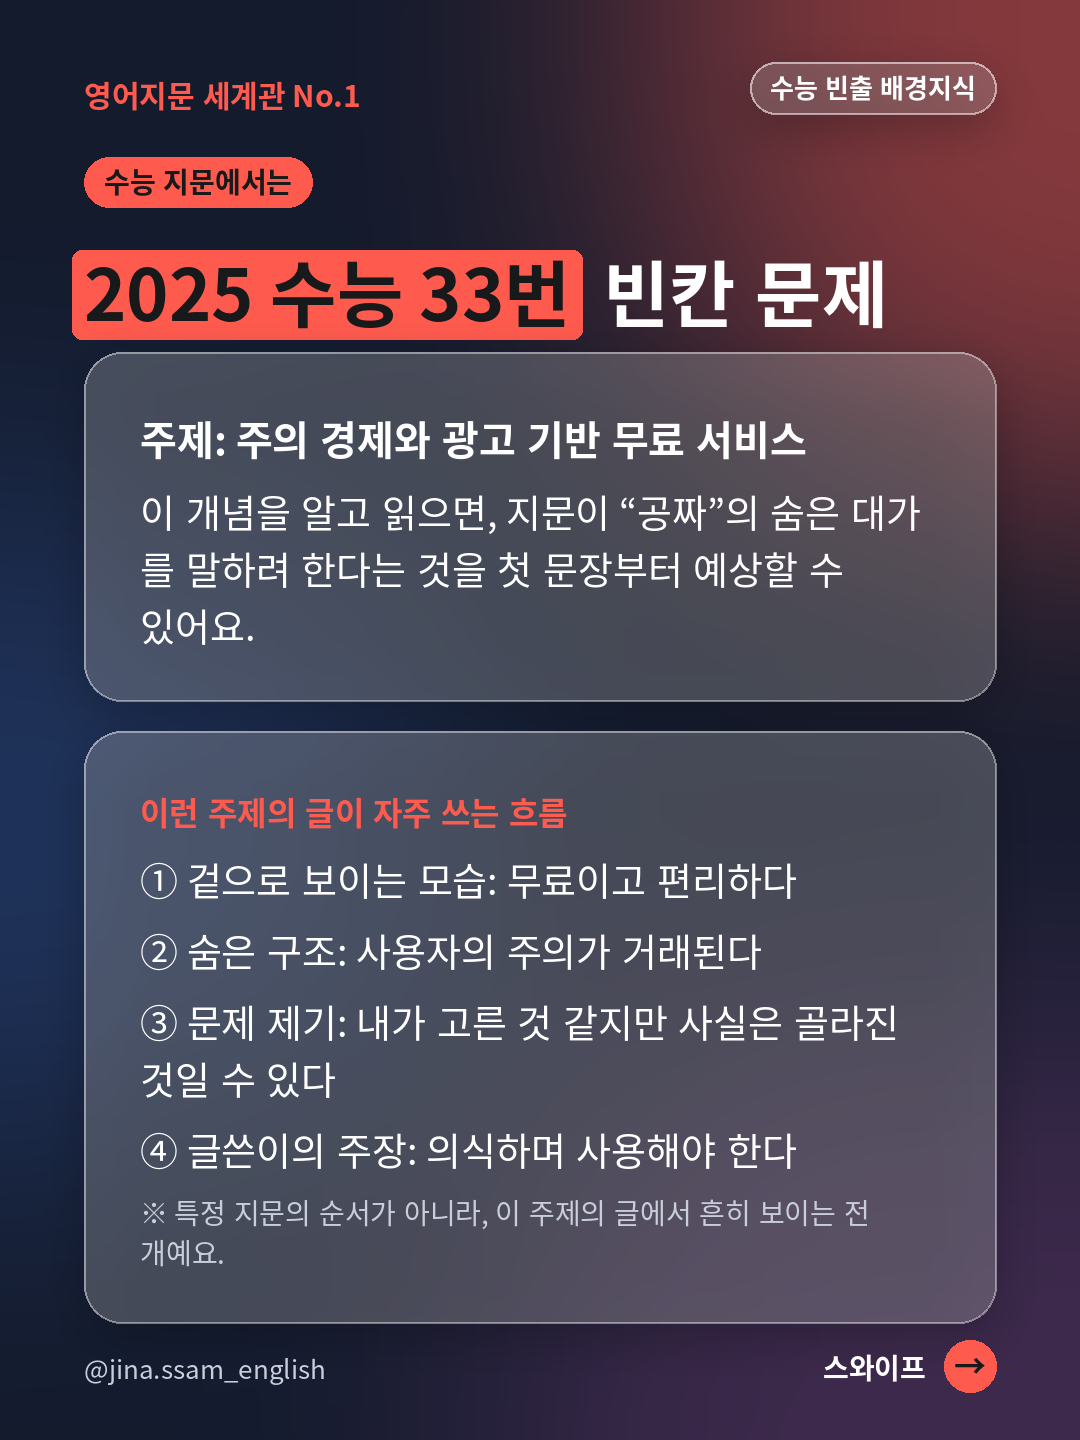
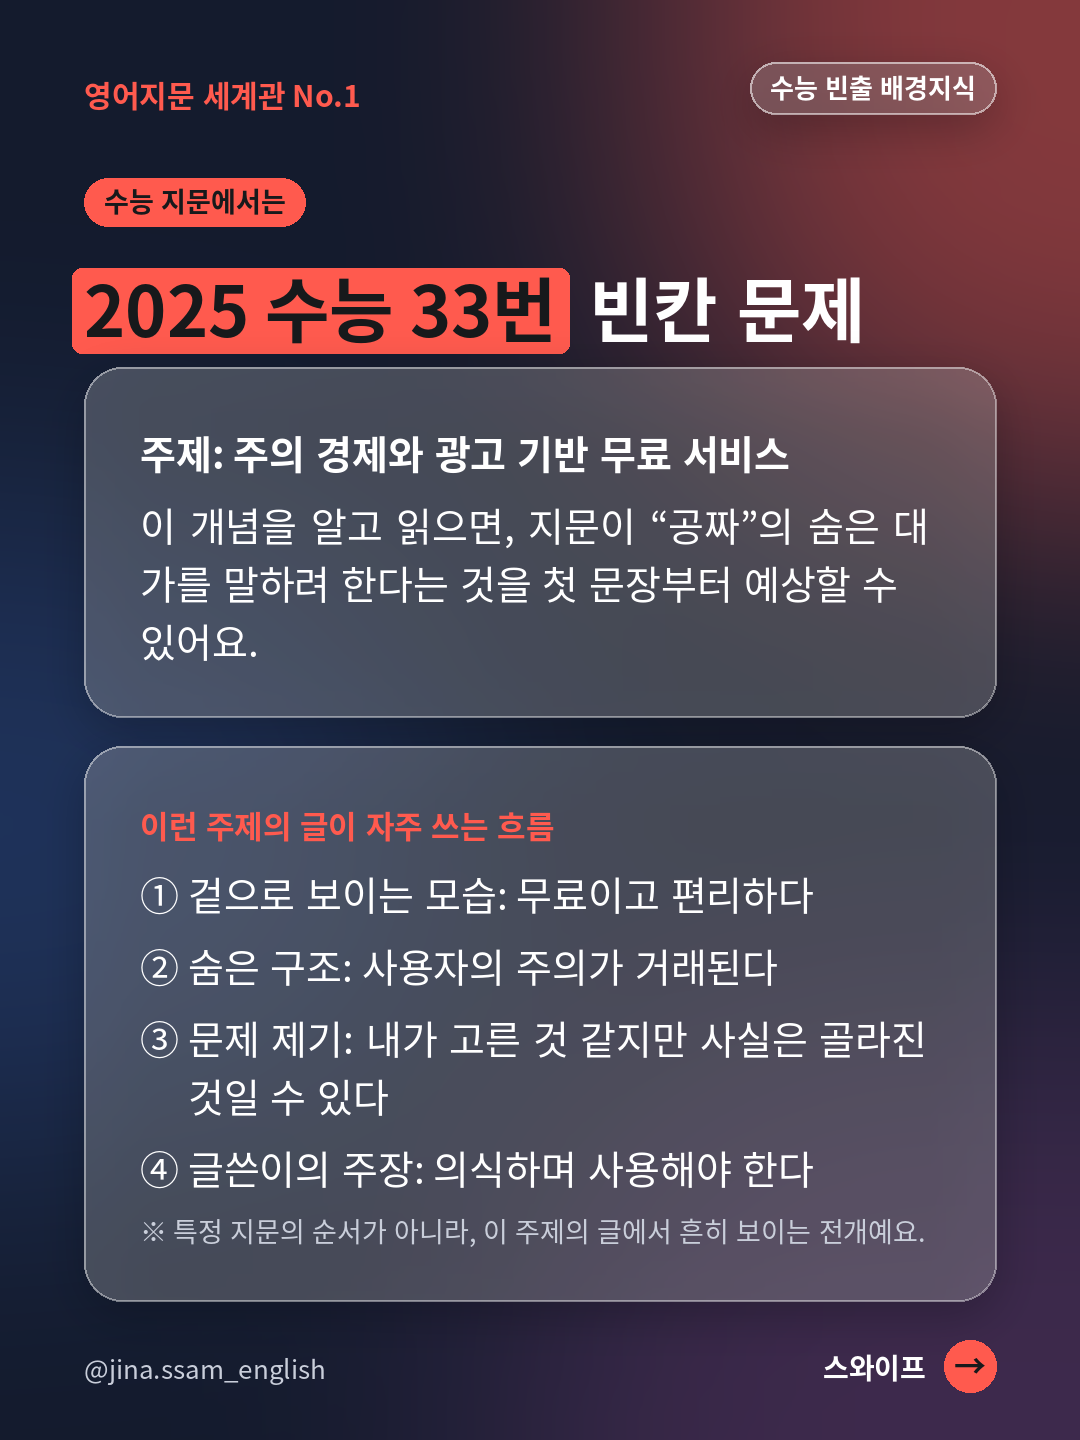
Justify Korean body text, hanging indent for numbered items; re-render No.1 and No.2
Claude-Session: https://claude.ai/code/session_01Wy1t89MoYtcTzxhXFEcNJ8

Changed region(s): [[0.0611, 0.0938, 0.9472, 0.9375]]

diff --git a/jina-carousel/neo_no01_attention.py b/jina-carousel/neo_no01_attention.py
@@ -1,6 +1,6 @@
 import sys,re; sys.path.insert(0,'.')
 from PIL import Image, ImageDraw
-from engine import F, tl, wrap, gl, ctext
+from engine import F, tl, wrap, wrap2, draw_just, gl, ctext
 W,H=1080,1440; M=80
 BG='#F9EAD7'; K='#17191B'; WHITE='#FFFFFF'
 LV={'하':('#BFE23A',K,'중학 수준'),'중':('#FFE164',K,'고1 수준'),'상':('#E10600',WHITE,'고3 수준')}
@@ -107,7 +107,7 @@ for lv in ['하','중','상']:
     sz=fit_size(lambda z: len(wrap(ko,F(z,False),W-2*M-112))*int(z*1.65)); f=F(sz,False); ls=wrap(ko,f,W-2*M-112); lh=int(sz*1.65)
     top=int(330+(1320-330-BOXH)/2); box(d,(M,top,W-M,top+BOXH),c)
     y0=top+(BOXH-len(ls)*lh)/2+8
-    for i,l in enumerate(ls): d.text((M+56,y0+i*lh),l,font=f,fill=tc)
+    for i,(l,last) in enumerate(wrap2(ko,f,W-2*M-112)): draw_just(d,l,M+56,y0+i*lh,W-2*M-112,f,tc,not last)
     swipe(d); save(im,n)
 # vocab
 V=[('하','free','무료의','Many apps are free.'),('하','still','그런데도, 여전히','The companies still make money.'),('하','company','회사 (복수형 companies)','The companies still make money.'),('하','ad','광고 (advertisement의 줄임말)','They show you ads.'),('하','sell','팔다','Your time is what they sell.'),('하','pay','돈을 내다 (paying은 진행형)','Who is paying?'),

diff --git a/jina-carousel/neo_no02_confirmation.py b/jina-carousel/neo_no02_confirmation.py
@@ -1,6 +1,6 @@
 import sys,re; sys.path.insert(0,'.')
 from PIL import Image, ImageDraw
-from engine import F, tl, wrap, gl, ctext
+from engine import F, tl, wrap, wrap2, draw_just, gl, ctext
 W,H=1080,1440; M=80
 BG='#F9EAD7'; K='#17191B'; WHITE='#FFFFFF'
 LV={'하':('#BFE23A',K,'중학 수준'),'중':('#FFE164',K,'고1 수준'),'상':('#E10600',WHITE,'고3 수준')}
@@ -107,7 +107,7 @@ for lv in ['하','중','상']:
     sz=fit_size(lambda z: len(wrap(ko,F(z,False),W-2*M-112))*int(z*1.65)); f=F(sz,False); ls=wrap(ko,f,W-2*M-112); lh=int(sz*1.65)
     top=int(330+(1320-330-BOXH)/2); box(d,(M,top,W-M,top+BOXH),c)
     y0=top+(BOXH-len(ls)*lh)/2+8
-    for i,l in enumerate(ls): d.text((M+56,y0+i*lh),l,font=f,fill=tc)
+    for i,(l,last) in enumerate(wrap2(ko,f,W-2*M-112)): draw_just(d,l,M+56,y0+i*lh,W-2*M-112,f,tc,not last)
     swipe(d); save(im,n)
 # vocab
 V=[('하','believe','믿다','When we believe something,'),('하','facts','사실 (fact의 복수형)','look for facts'),('하','agree','일치하다, 동의하다','facts that agree with us'),('하','ignore','무시하다','We often ignore facts'),('하','idea','생각','our idea feels more and more right'),('하','side','편, 쪽','listen to the other side'),

diff --git a/jina-carousel/RULES.md b/jina-carousel/RULES.md
@@ -47,6 +47,7 @@
 - 제목은 한 줄에 들어가면 한 줄로. 넘칠 때만 의미 단위로 줄바꿈.
 - 형광펜(강조 박스)은 실제 글자 위아래에 같은 여백을 두어 가운데 정렬. 강조 구간과 일반 글자 사이는 띄운다.
 - **줄바꿈은 사람이 텍스트 상자에 쓸 때처럼**: 한글은 글자 단위로 상자 끝에 닿을 때까지 채우고 넘어간다(띄어쓰기 단위로 일찍 끊지 않는다). 영어 단어는 쪼개지 않는다. 마침표·닫는 따옴표는 줄 맨 앞에 오지 않게, 숫자+단위(29번)는 붙이고, 마지막 줄에 한두 글자만 남지 않게 한다. 제목의 줄바꿈만 의미 단위로 직접 정한다.
+- **책 조판처럼**: 한글 본문은 양끝 정렬(마지막 줄과 영어 줄은 왼쪽 정렬). ①②③·1. 같은 번호 항목은 둘째 줄부터 번호가 아니라 글자 시작 위치에 맞춰 들여 쓴다(내어쓰기).
 - 텍스트 넘침은 코드에서 assert로 막는다. 자동 줄바꿈은 측정된 폭 기준.
 - 렌더 후 반드시 이미지를 직접 보고 확인한다.
 
